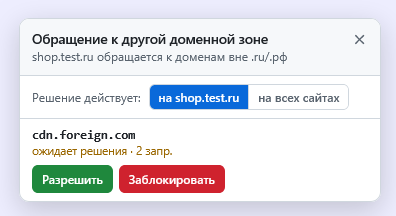
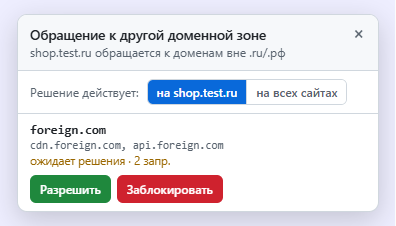
Решения для основного домена вместе с поддоменами
play.google.com, api.google.com и другие поддомены считаются одним
доменом google.com: показываются одной строкой и решаются одним нажатием.
Списки прежних версий сводятся к основным доменам автоматически.
Учитываются зоны вида co.uk/com.br и хостинги вроде github.io.

Changed region(s): [[0.0303, 0.0833, 0.9697, 0.9444]]

diff --git a/background.js b/background.js
@@ -12,7 +12,9 @@
 //   autoBlock = off, notify = off — блокируется только чёрный список.
 //
 // Списки: общие (для всех сайтов) и отдельные для каждого сайта. Решение для
-// сайта важнее общего. Приоритеты правил DNR (больше — важнее):
+// сайта важнее общего. В списках хранятся только основные домены: решение
+// для google.com действует и на play.google.com, и на api.google.com.
+// Приоритеты правил DNR (больше — важнее):
 //   1 — общая блокировка / общий чёрный список
 //   2 — общий белый список
 //   3 — чёрный список сайта
@@ -29,7 +31,8 @@ const BASE_CONDITION = { initiatorDomains: ZONES, excludedResourceTypes: ['main_
 const SITE_RULES_FROM = 100;
 
 let settings = { ...DEFAULTS };
-// tabs[tabId] = { page: 'www.shop.ru', items: { host: { host, site, status, scope, count, reload } } }
+// tabs[tabId] = { page: 'www.shop.ru', items: { domain: { host: domain, hosts, site, status, scope, count, reload } } }
+// host — основной домен (google.com), hosts — встреченные адреса (play.google.com, …)
 // status: 'pending' | 'auto' | 'blocked' | 'allowed' | 'passed'
 // scope:  'site' | 'global' | null — откуда взялось решение
 let tabs = {};
@@ -42,7 +45,23 @@ async function init() {
   } catch {
     tabs = {};
   }
+  if (normalizeLists()) {
+    await ext.storage.local.set({ allowed: settings.allowed, blocked: settings.blocked, sites: settings.sites });
+  }
   await syncRules();
+}
+
+// Прежние версии записывали каждый поддомен отдельно — сводим их к основным
+// доменам. Если домен оказался и среди разрешённых, и среди заблокированных,
+// остаётся блокировка. Возвращает true, если списки изменились.
+function normalizeLists() {
+  const snapshot = () => JSON.stringify([settings.allowed, settings.blocked, settings.sites]);
+  const before = snapshot();
+  for (const lists of [settings, ...Object.values(settings.sites)]) {
+    lists.blocked = [...new Set(lists.blocked.map(siteOf))];
+    lists.allowed = [...new Set(lists.allowed.map(siteOf))].filter((d) => !lists.blocked.includes(d));
+  }
+  return snapshot() !== before;
 }
 
 // ---------- Решение по домену ----------
@@ -202,16 +221,20 @@ async function onRequest(details) {
   const t = (tabs[tabId] ||= { page: null, items: {} });
   if (!t.page) t.page = from;
 
-  const it = t.items[to];
+  // Поддомены одного основного домена показываются и решаются вместе.
+  const domain = siteOf(to);
+  const it = t.items[domain];
   if (it) {
     it.count++;
+    const hosts = (it.hosts ||= []);
+    if (!hosts.includes(to) && hosts.length < 20) hosts.push(to);
   } else {
     // Сайт берём по инициатору запроса — так же, как его видят правила DNR.
     const site = siteOf(from);
-    const v = verdict(to, site);
+    const v = verdict(domain, site);
     // Разрешённые заранее домены — обычный трафик, его не показываем.
     if (v.status === 'allowed') return;
-    t.items[to] = { host: to, site, ...v, count: 1, reload: false };
+    t.items[domain] = { host: domain, hosts: [to], site, ...v, count: 1, reload: false };
   }
   pushTab(tabId);
 }
@@ -318,7 +341,7 @@ async function handle(msg, sender) {
       const t = tabs[tabId];
       const fallback = msg.site || (t && t.page ? siteOf(t.page) : null);
       const entries = (msg.hosts || []).map((h) => {
-        const host = String(h).toLowerCase();
+        const host = siteOf(String(h).toLowerCase());
         return { host, site: t?.items[host]?.site || fallback };
       });
       await decide(entries, msg.decision, msg.scope || settings.scope);

diff --git a/lib.js b/lib.js
@@ -2,12 +2,30 @@
 const RU = (() => {
   const ZONES = ['ru', 'xn--p1ai']; // .ru и .рф (punycode)
 
-  // Публичные суффиксы второго уровня в .ru (из Public Suffix List):
-  // сайтом считается домен на уровень ниже, например city.msk.ru.
+  // Публичные суффиксы (подмножество Public Suffix List): основным доменом
+  // считается домен на уровень ниже — city.msk.ru, bbc.co.uk, user.github.io.
   const SUFFIXES = new Set([
     'ac.ru', 'edu.ru', 'gov.ru', 'int.ru', 'mil.ru', 'test.ru',
     'com.ru', 'net.ru', 'org.ru', 'pp.ru', 'msk.ru', 'spb.ru',
+    // хостинги, где у каждого клиента свой поддомен
+    'github.io', 'gitlab.io', 'blogspot.com', 'appspot.com', 'herokuapp.com',
+    'firebaseapp.com', 'web.app', 'netlify.app', 'vercel.app', 'pages.dev',
+    'workers.dev', 'onrender.com', 'glitch.me', 'cloudfront.net',
+    'azurewebsites.net', 's3.amazonaws.com',
   ]);
+  // Второй уровень национальных зон: co.uk, com.au, co.jp, com.br …
+  const CC_SECOND = new Set([
+    'ac', 'co', 'com', 'edu', 'go', 'gob', 'gov', 'gv', 'ltd', 'me',
+    'mil', 'ne', 'net', 'nic', 'nom', 'or', 'org', 'plc', 'sch',
+  ]);
+
+  function isSuffix(s) {
+    if (SUFFIXES.has(s)) return true;
+    const p = s.split('.');
+    return p.length === 2 && p[1].length === 2 && !ZONES.includes(p[1]) && CC_SECOND.has(p[0]);
+  }
+
+  const isIP = (host) => /^\d+(\.\d+){3}$/.test(host) || host.includes(':');
 
   function hostOf(url) {
     try {
@@ -23,12 +41,14 @@ const RU = (() => {
 
   const inZone = (host) => inList(host, ZONES);
 
-  // Сайт = регистрируемый домен: www.shop.ru и m.shop.ru → shop.ru.
+  // Основной (регистрируемый) домен: www.shop.ru → shop.ru, play.google.com → google.com.
   function siteOf(host) {
+    if (!host || isIP(host)) return host;
     const parts = host.split('.');
-    if (parts.length <= 2) return host;
-    const two = parts.slice(-2).join('.');
-    return parts.slice(SUFFIXES.has(two) ? -3 : -2).join('.');
+    for (let i = 1; i < parts.length - 1; i++) {
+      if (isSuffix(parts.slice(i).join('.'))) return parts.slice(i - 1).join('.');
+    }
+    return parts.slice(-2).join('.');
   }
 
   // RFC 3492: метка punycode без префикса xn-- → Unicode.
@@ -80,5 +100,13 @@ const RU = (() => {
       .join('.');
   }
 
-  return { ZONES, hostOf, inList, inZone, siteOf, display };
+  // Подпись под основным доменом: к каким его адресам обращалась страница.
+  function hostsLine(item) {
+    const hosts = item.hosts || [];
+    if (hosts.every((h) => h === item.host)) return '';
+    const shown = hosts.slice(0, 4).map(display).join(', ');
+    return hosts.length > 4 ? `${shown} и ещё ${hosts.length - 4}` : shown;
+  }
+
+  return { ZONES, hostOf, inList, inZone, siteOf, display, hostsLine };
 })();

diff --git a/content.js b/content.js
@@ -36,6 +36,7 @@
     .row > .grow { flex: 1 1 100%; }
     .row:last-child { border-bottom: 0; }
     .dom { font: 600 12.5px/1.3 ui-monospace, Consolas, monospace; overflow-wrap: anywhere; }
+    .subs { font: 11px/1.3 ui-monospace, Consolas, monospace; color: #59636e; overflow-wrap: anywhere; }
     .meta { font-size: 11.5px; color: #59636e; }
     .meta.bad { color: #cf222e; } .meta.ok { color: #1a7f37; } .meta.wait { color: #9a6700; }
     .btns { display: flex; gap: 6px; flex-shrink: 0; }
@@ -59,7 +60,7 @@
       .scope { color: #9198a1; }
       .seg button { background: #21262d; color: #9198a1; }
       .seg button.on { background: #1f6feb; color: #fff; }
-      .sub, .meta, .x, .foot .grow { color: #9198a1; }
+      .sub, .subs, .meta, .x, .foot .grow { color: #9198a1; }
       .x:hover { color: #e6edf3; }
       .meta.bad { color: #ff7b72; } .meta.ok { color: #3fb950; } .meta.wait { color: #d29922; }
       .ghost { background: #21262d; color: #e6edf3; border-color: #30363d !important; } .ghost:hover { background: #30363d; }
@@ -136,7 +137,13 @@
       btns = el('div', { class: 'btns' },
         el('button', { class: 'b ghost', onclick: () => decide([it.host], 'block') }, 'Заблокировать'));
     }
-    return el('div', { class: 'row' }, el('div', { class: 'grow' }, el('div', { class: 'dom' }, RU.display(it.host)), meta), btns);
+    const subs = RU.hostsLine(it);
+    return el('div', { class: 'row' },
+      el('div', { class: 'grow' },
+        el('div', { class: 'dom' }, RU.display(it.host)),
+        subs ? el('div', { class: 'subs' }, subs) : null,
+        meta),
+      btns);
   }
 
   function title(items, pending) {

diff --git a/popup.js b/popup.js
@@ -30,13 +30,19 @@ function button(text, cls, onclick) {
   return b;
 }
 
-function domainCell(host, statusText, statusCls) {
+function domainCell(host, statusText, statusCls, subsText) {
   const wrap = document.createElement('div');
   wrap.className = 'grow';
   const d = document.createElement('span');
   d.className = 'dom';
   d.textContent = RU.display(host);
   wrap.append(d);
+  if (subsText) {
+    const s = document.createElement('span');
+    s.className = 'subs';
+    s.textContent = subsText;
+    wrap.append(s);
+  }
   if (statusText) {
     const s = document.createElement('span');
     s.className = 'st ' + statusCls;
@@ -99,7 +105,7 @@ function renderPage(state) {
       (WHERE[it.scope] || '') + (it.reload ? ' · нужна перезагрузка' : '') + (it.count > 1 ? ` · ${it.count} запр.` : '');
     const blocking = it.status !== 'allowed' && it.status !== 'passed';
     list.append(li(
-      domainCell(it.host, text + suffix, cls),
+      domainCell(it.host, text + suffix, cls, RU.hostsLine(it)),
       blocking
         ? button('Разрешить', 'b allow', () => decide(it.host, 'allow'))
         : button('Заблокировать', 'b block', () => decide(it.host, 'block'))

diff --git a/popup.css b/popup.css
@@ -40,6 +40,7 @@ section:last-of-type { border-bottom: 0; }
 .list li:last-child { border-bottom: 0; }
 .list .empty { color: var(--muted); border: 0; }
 .dom { font: 12px/1.3 ui-monospace, Consolas, monospace; word-break: break-all; }
+.subs { display: block; font: 10.5px/1.3 ui-monospace, Consolas, monospace; color: var(--muted); word-break: break-all; }
 .st { display: block; font-size: 11px; }
 .st.bad { color: var(--bad); } .st.ok { color: var(--ok); } .st.wait { color: var(--wait); } .st.muted { color: var(--muted); }
 

diff --git a/README.md b/README.md
@@ -21,6 +21,7 @@
 - 🛡 **Перехват обращений к другим зонам**: скрипты, стили, шрифты, картинки, fetch/XHR, iframe, WebSocket, beacon.
 - 🔔 **Запрос в правом нижнем углу** с доменом и кнопками «Разрешить» / «Заблокировать», а при нескольких доменах ещё и «все сразу».
 - ⚡ **Автоматическая блокировка** всего внешнего, кроме разрешённых доменов.
+- 🌐 **Решение сразу для всего домена**: `play.google.com`, `api.google.com` и `fonts.google.com` показываются одной строкой `google.com`, и одно «Разрешить» действует на все поддомены.
 - 📋 **Решения для одного сайта или для всех**: разрешите домен только на `shop.ru` или сразу на всех сайтах .ru/.рф. Решение для сайта важнее общего.
 - 🔢 **Счётчик на значке**: сколько внешних доменов заблокировано на текущей вкладке.
 - 🎨 Светлая и тёмная тема. Уведомление изолировано в Shadow DOM, поэтому стили сайта его не ломают.
@@ -44,7 +45,9 @@
 - **На этом сайте.** Домен разрешён или заблокирован только на текущем сайте. Сайтом считается домен вместе с поддоменами: решение для `shop.ru` действует и на `www.shop.ru`, и на `m.shop.ru`. Для зон вроде `msk.ru` или `com.ru` сайтом считается домен на уровень ниже, например `city.msk.ru`.
 - **На всех сайтах.** Решение попадает в общий список и действует на всех сайтах .ru/.рф.
 
-Решение для сайта важнее общего. Например, можно разрешить `cdn.example.com` везде, но запретить его на одном сайте, и наоборот. Если принять решение «на всех сайтах», прежнее решение для текущего сайта снимается.
+Решение всегда принимается для основного домена вместе со всеми поддоменами: разрешив `google.com`, вы разрешаете и `play.google.com`, и `api.google.com`. В уведомлении под доменом видно, к каким именно его адресам обращалась страница. Для зон вроде `co.uk` или `com.br` и хостингов вроде `github.io` основным считается домен на уровень ниже: `bbc.co.uk`, `user.github.io`.
+
+Решение для сайта важнее общего. Например, можно разрешить `example.com` везде, но запретить его на одном сайте, и наоборот. Если принять решение «на всех сайтах», прежнее решение для текущего сайта снимается.
 
 Во всплывающем окне списки разделены на две вкладки: **По сайтам** и **Для всех сайтов**. Любую запись можно удалить, а все решения для сайта — сбросить разом.
 
